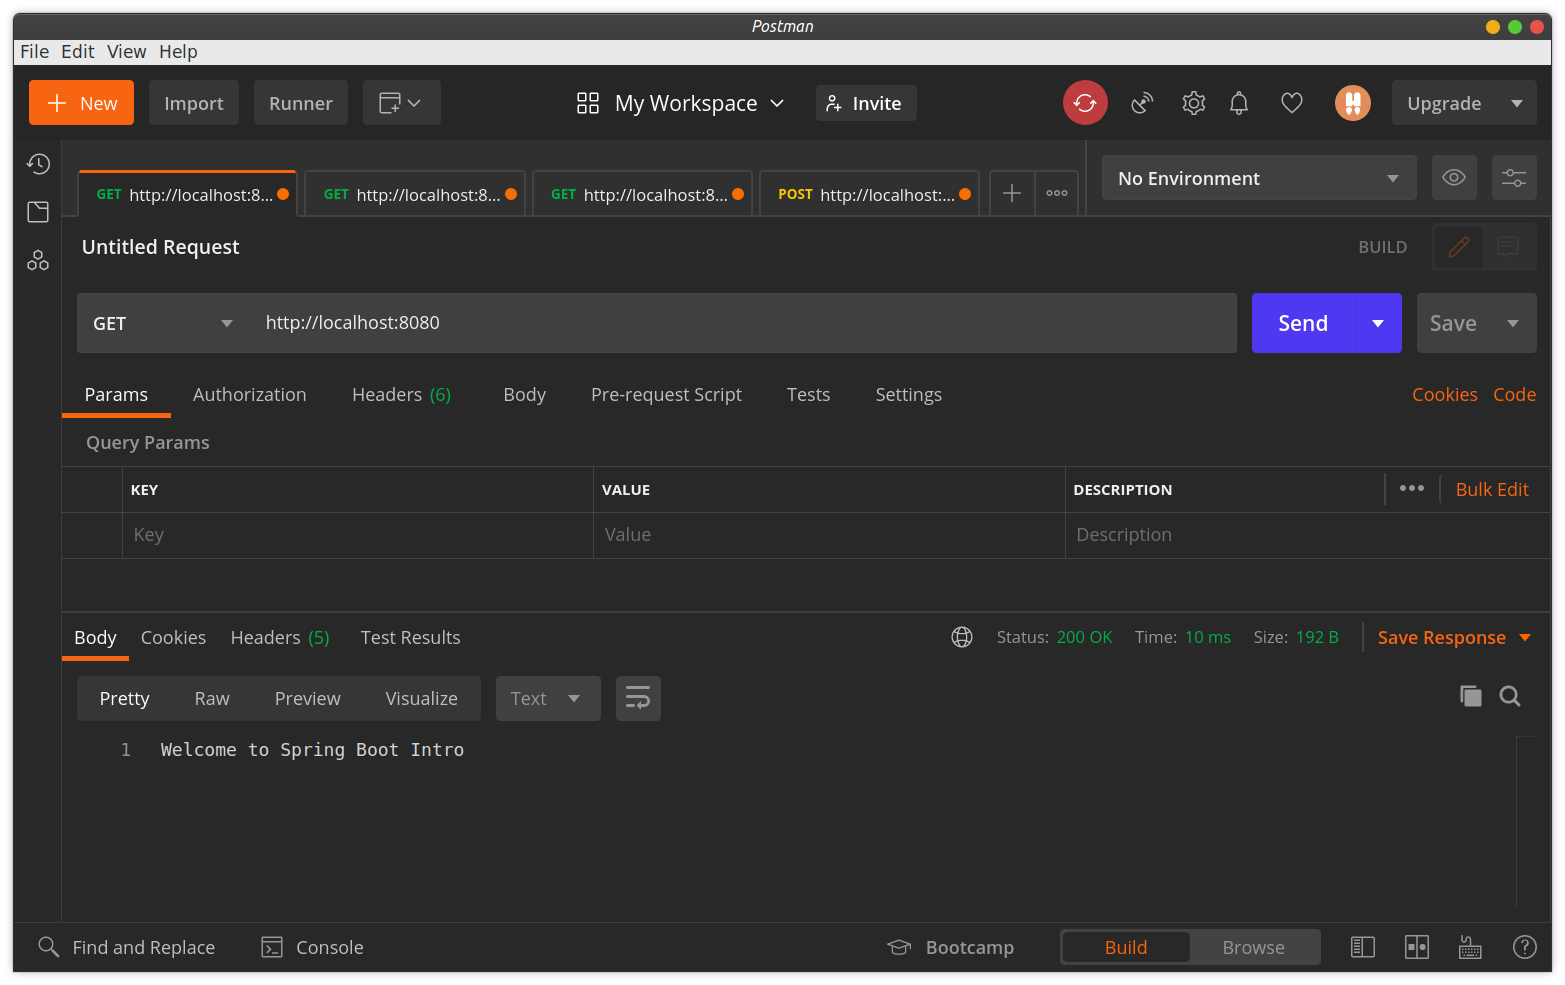
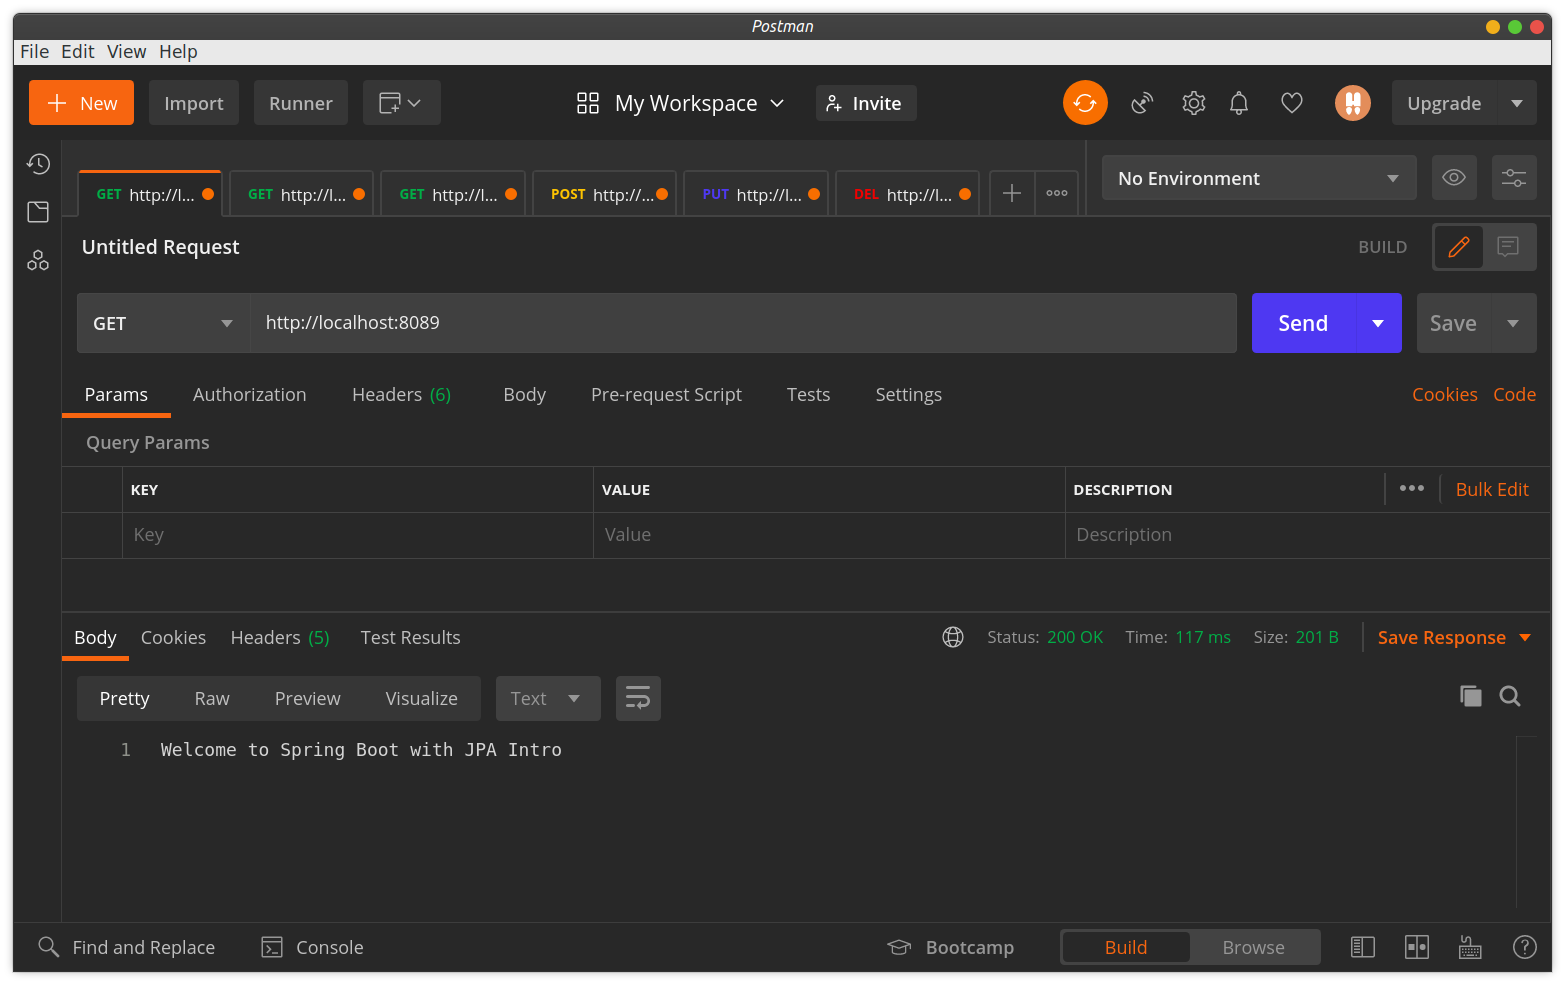
CRUD Ops with Repository

diff --git a/spring-boot-jpa/src/main/java/io/fall/springbootjpa/course/CourseService.java b/spring-boot-jpa/src/main/java/io/fall/springbootjpa/course/CourseService.java
@@ -1,8 +1,7 @@
 package io.fall.springbootjpa.course;
 
-import java.util.ArrayList;
-import java.util.Arrays;
 import java.util.List;
+import java.util.Optional;
 
 import org.springframework.beans.factory.annotation.Autowired;
 import org.springframework.stereotype.Service;
@@ -12,44 +11,28 @@ public class CourseService {
 
     @Autowired
     private CourseRepository courseRepository;
-
-    private List<Course> courses = new ArrayList<>(
-        Arrays.asList(
-            new Course("1", "Spring Boot", "Introduction to spring boot"),
-            new Course("2", "Java", "Introduction to Java"),
-            new Course("3", "JSPs & Servlets", "introduction to JSPs & Servlets")
-        )
-    );
-
+    
     public List<Course> getAllCourses() {
-        List<Course> c = (List<Course>) courseRepository.findAll();
-        return c;
+        return (List<Course>) courseRepository.findAll();
     }
 
     public Course getCourse(String id) {
-        return courses.stream().filter(t->t.getId().equals(id)).findFirst().get();
+        Optional<Course> course =  courseRepository.findById(id);
+        if(course.isPresent()){
+            return course.get();
+        }
+        return null;
     }
 
     public void addCourse(Course course) {
-        courses.add(course);
+        courseRepository.save(course);
     }
 
     public void updateCourse(String id, Course course) {
-        for (int i = 0; i < courses.size(); i++) {
-            if (courses.get(i).getId().equals(id)) {
-                courses.set(i, course);
-                break;
-            }
-        }
+        courseRepository.save(course);
     }
 
     public void deleteCourse(String id) {
-        courses.removeIf(t-> t.getId().equals(id));
-        // for (int i = 0; i < courses.size(); i++) {
-        //     if (courses.get(i).getId().equals(id)) {
-        //         courses.remove(i);
-        //         break;
-        //     }
-        // }
+        courseRepository.deleteById(id);
     }
 }

diff --git a/spring-boot-jpa/Readme.md b/spring-boot-jpa/Readme.md
@@ -64,3 +64,11 @@ test=> \dt;
 test=> select * from table1;
 ```
 ---
+
+### Port 8089 was already in use :
+
+```
+$ lsof -i :8089 | grep LISTEN
+java    354291 shiru  102u  IPv6 240958      0t0  TCP *:8089 (LISTEN)
+$ kill -9 354291
+```
